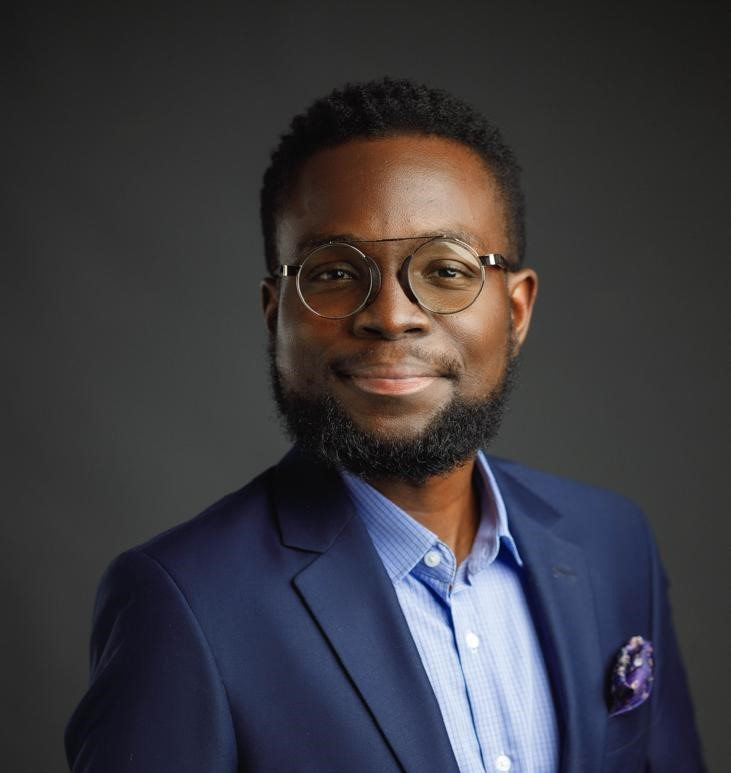
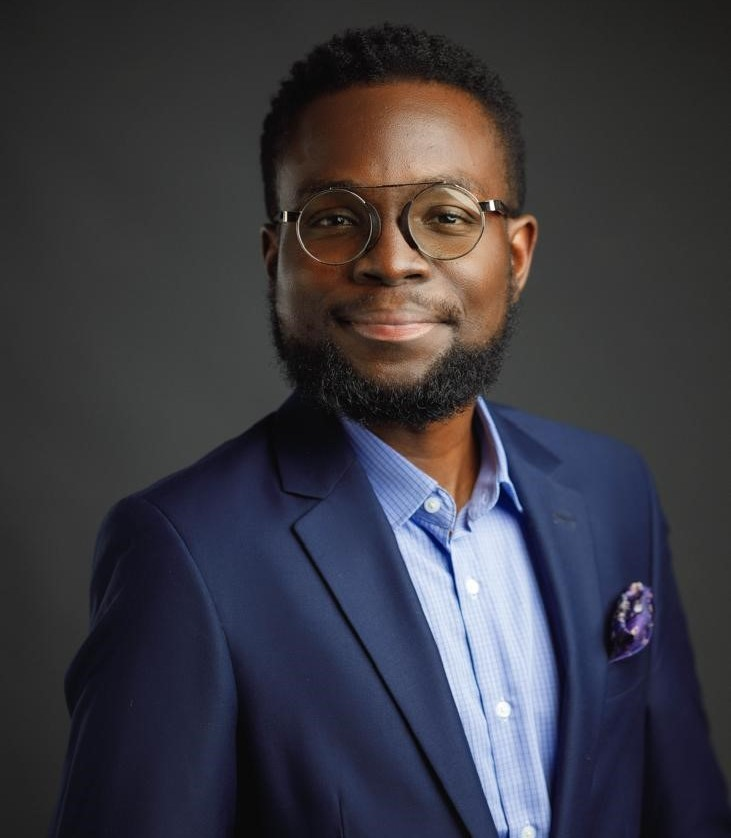
content updates

diff --git a/src/app/trustees/page.tsx b/src/app/trustees/page.tsx
@@ -12,48 +12,56 @@ interface Trustee {
 const trustees: Trustee[] = [
   {
     id: 1,
-    name: "Eno Quagraine",
+    name: "Mrs. Eno Quagraine",
     role: "Board Memeber",
-    bio: `Eno Quagraine is a passionate educator with her first teaching experience 16 years ago at Ghana International School where she honed her skills in nurturing young minds. She also provided private tutoring for kids who struggled academically and volunteered at Alkot Child Development Centre as a caregiver for orphaned babies. 
+    bio: `Mrs. Eno Quagraine is a passionate educator with her first teaching experience 16 years ago at Ghana International School where she honed her skills in nurturing young minds. She also provided private tutoring for kids who struggled academically and volunteered at Alkot Child Development Centre as a caregiver for orphaned babies. 
 With a deep commitment to maternal health, she founded Talkative Mom LLC, a platform she created to empower and support mothers through advocacy and community building. 
 
 As a dedicated mother herself, Eno is passionate about creating environments where children can thrive. She is excited to bring her expertise, leadership, and care to the role of school head.
+
+
 `,
-    image: "/images/eno-trustee.jpg",
+    image: "/images/Eno-trustee.jpg",
   },
   {
     id: 2,
-    name: "Mrs Surama King",
+    name: "Mrs. Surama King",
     role: "Board Member",
     bio: `With over 25 years as an experiential and service-learning educator, Surama’s career spans various educational settings, where she has championed holistic, co-curricular engagement as a means of inspiring lifelong learning. She is passionate about guiding students toward personal and academic growth by fostering creativity, resilience, and community engagement through experiential learning. As a strong advocate for service and real-world learning, Surama brings deep insight into the impact of co-curricular activities in shaping well-rounded, globally minded individuals. She is currently the head of CAS ( Creativity , Activity, Service) Coordinator at Tema International School and looks forward to replicating her work here and speaking creativity  in our young ones. 
+
 `,
     image: "/images/King.jpg",
   },
   {
     id: 3,
-    name: "Dr Genevieve Allotey-Papoe",
+    name: "Dr Genevieve Allotey-Pappoe",
     role: "Board Member",
-    bio: `Dr Genevieve Allotey- Papoe is an Assistant Professor of Musicology and Ethnomusicology at Brown University. She completed her PhD in the Department of Music at Princeton University with a focus on music of the Black diaspora, African creative economy, sound studies, media studies, and the music industry. She is passionate about bridging the gap between academia and the creative sector through collaborative projects that focus on music, technology, communities, and social impact and is excited to see the musical talents in our little ones and provide guidance on international opportunities. 
+    bio: `Dr Genevieve Allotey- Pappoe is an Assistant Professor of Musicology and Ethnomusicology at Brown University. She completed her PhD in the Department of Music at Princeton University with a focus on music of the Black diaspora, African creative economy, sound studies, media studies, and the music industry. 
+Genevieve is a composer and her compositions have been performed in USA, Greece, Ghana, and Nigeria.
+She is passionate about bridging the gap between academia and the creative sector through collaborative projects that focus on music, technology, communities, and social impact and is excited to see the musical talents in our little ones and provide guidance on international opportunities. 
+ 
 `,
     image: "/images/Genevive.jpg",
   },
   {
     id: 4,
-    name: "Adelaide Yirenkyi",
+    name: "Mr. David Quagraine",
     role: "Board Member",
-    bio: `Adelaide Yirenkyi is a clinical educator at the Department of Audiology, Speech and Language Therapy at the University of Ghana. She has a bachelor's degree in Psychology and a master's in Speech and Language Therapy. Adelaide has always been interested in special needs and has been working in inclusive education since 2012. Adelaide is an Early Interventionist and currently serves children and their families across Ghana and West Africa through the Speech and Hearing Centre and looks forward to building a more inclusive environment while heading programs that focus on early intervention. 
-`,
-    image: "/images/Adelaide.jpg",
+    bio: `Mr. David Quagraine is an experienced Cloud Consultant specializing in Solution Architecture, DevSecOps and FinOps with over 12 years of experience delivering secure, cost-effective solutions across finance, telecom, and tech sectors. David holds an MSc in Business Technology Consulting from Henley Business School.
+Having lectured technology students in the past, David enjoys imparting knowledge and values education especially in the tech space. 
+He is currently the Group Head of Cloud at a financial institution and looks forward to bringing his expertise on board in drawing up kid-friendly tech-based programs that allows our preschool children have options in today’s world .`,
+    image: "/images/David.jpg",
   },
   {
     id: 5,
-    name: "David Kobina Quagraine",
+    name: "Mrs . Adelaide Yirenkyi",
     role: "Board Member",
-    bio: `David Quagraine is an experienced Cloud Consultant specializing in Solution Architecture, DevSecOps and FinOps with over 12 years of experience delivering secure, cost-effective solutions across finance, telecom, and tech sectors. David holds an MSc in Business Technology Consulting from Henley Business School.
-Having lectured technology students at MEST,David enjoys imparting knowledge and values education especially in the tech space. 
-He is currently the Group Head of Cloud at FCMB, Nigeria and looks forward to bringing his expertise on board in drawing up kid-friendly tech-based programs that allows our preschool children have options in today’s world .`,
-    image: "/images/David.jpg",
+    bio: `Mrs . Adelaide Yirenkyi is a clinical educator at the Department of Audiology, Speech and Language Therapy at the University of Ghana. She has a bachelor's degree in Psychology and a master's in Speech and Language Therapy. Adelaide has always been interested in special needs and has been working in inclusive education since 2012. Adelaide is an Early Interventionist and currently serves children and their families across Ghana and West Africa through the Speech and Hearing Centre and looks forward to building a more inclusive environment while heading programs that focus on early intervention. 
+ 
+`,
+    image: "/images/Adelaide.jpg",
   },
+
 ];
 
 export default function BoardOfTrustees() {

diff --git a/src/app/admissions/page.tsx b/src/app/admissions/page.tsx
@@ -1,6 +1,5 @@
 import EnrolChild from "@/components/admission/EnrolChild";
-import ProgramCard from "@/components/home/ProgramCard";
-import { programs } from "@/utils/constants";
+
 import React from "react";
 
 const AdmissionsPage = () => {
@@ -10,7 +9,7 @@ const AdmissionsPage = () => {
       <section className="relative bg-[#007f94] text-white py-24">
         <div className="max-w-7xl mx-auto px-6 sm:px-12">
           <div className="text-center space-y-8">
-            <h1 className="text-4xl sm:text-5xl font-extrabold tracking-tight leading-tight sm:text-6xl">
+            <h1 className="text-4xl md:text-5xl font-extrabold tracking-tight leading-tight ">
               Welcome to Our Admissions Portal
             </h1>
             <p className="text-lg sm:text-xl text-white/80 max-w-3xl mx-auto">
@@ -22,32 +21,7 @@ const AdmissionsPage = () => {
         </div>
       </section>
 
-      {/* Programs Section */}
-      <section className="py-16 bg-gradient-to-r from-gray-100 via-white to-gray-100">
-        <div className="max-w-7xl mx-auto px-6 sm:px-12">
-          <div className="text-center mb-12">
-            <h2 className="text-3xl sm:text-4xl font-bold bg-clip-text text-transparent bg-gradient-to-r from-green-400 to-blue-500">
-              Explore Our Programs
-            </h2>
-            <p className="mt-4 text-gray-600">
-              Flexible schedules to fit your family’s needs, with premium care
-              and enriching activities.
-            </p>
-          </div>
-          <div className="grid gap-8 lg:grid-cols-3">
-            {programs.map((program, index) => (
-              <ProgramCard
-                key={index}
-                number={String(index + 1).padStart(2, "0")}
-                title={program.title}
-                description={program.description}
-                time={program.schedule}
-                price={program?.price} // Update this as per the actual pricing, if needed
-              />
-            ))}
-          </div>
-        </div>
-      </section>
+ 
 
       {/* Enroll Your Child Section */}
       <EnrolChild />

diff --git a/src/components/home/TestimonialCard.tsx b/src/components/home/TestimonialCard.tsx
@@ -30,19 +30,19 @@ const TestimonialCard = () => {
               learning are just as important as academic achievement. There was
               a growing need in my community for a preschool that went beyond
               traditional teaching methods—one that nurtures the whole child,
-              emotionally, socially, and intellectually.&quot; My vision for this
+              emotionally, socially, and intellectually. My vision for this
               preschool is simple. To create an environment where children feel
               safe, loved, and encouraged to be themselves. With a curriculum
               that emphasizes play-based learning, we focus on helping children
               develop critical thinking skills, emotional regulation, and a love
               for learning that will stay with them throughout their lives. Our
               staff is dedicated not only to academic excellence but also to
-              fostering an atmosphere of empathy, respect, and creativity.
+              fostering an atmosphere of empathy, respect, and creativity.&quot;
             </p>
             <footer className="mt-8">
               <div className="flex flex-col items-start">
                 <div className="text-[#2D3142] font-medium text-xl">
-                  Eno Quagraine - Talkative Mom
+                  Mrs. Eno Quagraine - Talkative Mom
                 </div>
                 <div className="text-gray-500 mt-1">
                   Founder & Head of School

diff --git a/src/utils/constants.tsx b/src/utils/constants.tsx
@@ -60,10 +60,10 @@ export const navigation: { title: string; href: string }[] = [
       time: "8am-3pm",
       price: "GHC 20,000",
       description:
-        "Here , we enroll babies from 3 months-2years. We have 3 classes and age groups in our Daycare Block . Prewalkers, Walkers and Nursery 1. We have flexible options available as we understand babies take time to adjust. Daily, Weekly, Monthly and Termly Registration available.  In addition, our Baby & Me class meets once a month with Speechie Ad, our favorite Speechie and Language Therapist. ",
+        "Enrolling babies from 3 months-2years. We have 3 classes and age groups in our Daycare Block . Prewalkers, Walkers and Nursery 1. We have flexible options available as we understand babies take time to adjust. Daily, Weekly, Monthly and Termly Registration available.  In addition, our Baby & Me class meets once a month with Speechie Ad, our favorite Speechie and Language Therapist. ",
       ageGroup: "3months-2years",
       schedule: "Monday -Friday 8am -3pm",
-      activities: ["Develop Boosting Activities", "Rhyme Time", "Story Time", "Playtime", "Naptime "],
+      activities: ["Development Boosting Activities", "Rhyme Time", "Story Time", "Playtime", "Naptime "],
     },
     {
       icon: "/images/puzzle.png",

diff --git a/src/app/layout.tsx b/src/app/layout.tsx
@@ -5,6 +5,7 @@ import { Theme } from "@radix-ui/themes";
 import "./globals.css";
 import NavBar from "@/components/shared/NavBar";
 import Footer from "@/components/shared/Footer";
+import Provider from "./provider";
 
 const quickSand = Quicksand({
   subsets: ["latin"],
@@ -31,7 +32,8 @@ export default function RootLayout({
   return (
     <html lang="en">
       <Theme>
-        <body className={`${quickSand.variable} antialiased`}>
+       <Provider>
+       <body className={`${quickSand.variable} antialiased`}>
           <div className="flex flex-col min-h-screen font-quick-sand">
             {/* Sticky Navbar */}
             <NavBar />
@@ -43,6 +45,7 @@ export default function RootLayout({
             <Footer />
           </div>
         </body>
+       </Provider>
       </Theme>
     </html>
   );

diff --git a/src/components/trustees/TrusteeCard.tsx b/src/components/trustees/TrusteeCard.tsx
@@ -11,13 +11,13 @@ const TrusteeCard = ({ trustee }: { trustee: ITrustee }) => {
   return (
     <div className="flex flex-col items-center gap-8">
       {/* Image Section */}
-      <div className="relative w-full h-80 sm:w-[280px] sm:h-[240px] md:w-[350px] md:h-[270px] xl:w-[450px] xl:h-[350px] rounded-xl overflow-hidden shadow-xl transform transition-all duration-300 hover:scale-105">
+      <div className="relative w-full h-80  sm:h-[240px]  md:h-[270px] xl:h-[350px] rounded-xl overflow-hidden shadow-xl transform transition-all duration-300 hover:scale-105">
         <Image
           src={trustee.image}
           alt={trustee.name}
           layout="fill"
           objectFit="cover"
-          className="rounded-xl"
+          className="rounded-xl object-top"
         />
       </div>
 

diff --git a/src/components/home/CardSlider.tsx b/src/components/home/CardSlider.tsx
@@ -47,7 +47,7 @@ const CardSlider: React.FC = () => {
       title: "Daycare",
       time: "8am-3pm",
       description:
-        "Here , we enroll babies from 3 months-2years. We have 3 classes and age groups in our Daycare Block . Prewalkers, Walkers and Nursery 1. We have flexible options available as we understand babies take time to adjust. Daily, Weekly, Monthly and Termly Registration available.",
+        "Enrolling babies from 3 months-2years. We have 3 classes and age groups in our Daycare Block . Prewalkers, Walkers and Nursery 1. We have flexible options available as we understand babies take time to adjust. Daily, Weekly, Monthly and Termly Registration available.",
     },
     {
       icon: "/images/puzzle.png",

diff --git a/src/components/home/Program.tsx b/src/components/home/Program.tsx
@@ -14,7 +14,7 @@ const Program = () => {
       title: "Daycare",
       time: "8am-3pm",
       description:
-        "Here , we enroll babies from 3 months-2years. We have 3 classes and age groups in our Daycare Block . Prewalkers, Walkers and Nursery 1. We have flexible options available as we understand babies take time to adjust. Daily, Weekly, Monthly and Termly Registration available.",
+        "Enrolling babies from 3 months-2years. We have 3 classes and age groups in our Daycare Block . Prewalkers, Walkers and Nursery 1. We have flexible options available as we understand babies take time to adjust. Daily, Weekly, Monthly and Termly Registration available.",
     },
     {
       icon: "/images/puzzle.png",

diff --git a/src/components/home/FAQSection.tsx b/src/components/home/FAQSection.tsx
@@ -7,7 +7,7 @@ const faqs = [
   },
   {
     question: "What are your operating hours?",
-    answer: "Our daycare and preschool is open from 8:00 AM -3:00 PM but drop off can start from 7:30 AM-  to as late as 6:00 PM if registered for our after school program Monday through Friday to accommodate various family needs"
+    answer: "Our daycare and preschool is open from 8:00 AM -3:00 PM but drop off can start from 7:30 AM-  to as late as 6:00 PM if registered for our after school program."
   },
   {
     question: "What is your staff-to-child ratio?",

diff --git a/src/app/provider.tsx b/src/app/provider.tsx
@@ -1,0 +1,19 @@
+"use client"
+import React from 'react'
+import { AppProgressBar as ProgressBar } from 'next-nprogress-bar';
+
+
+const Provider = ({children}: {children: React.ReactNode}) => {
+  return (
+<>
+<ProgressBar
+    height="4px"
+    color="#eab308"
+    shallowRouting
+  />
+  {children}
+</>
+  )
+}
+
+export default Provider
